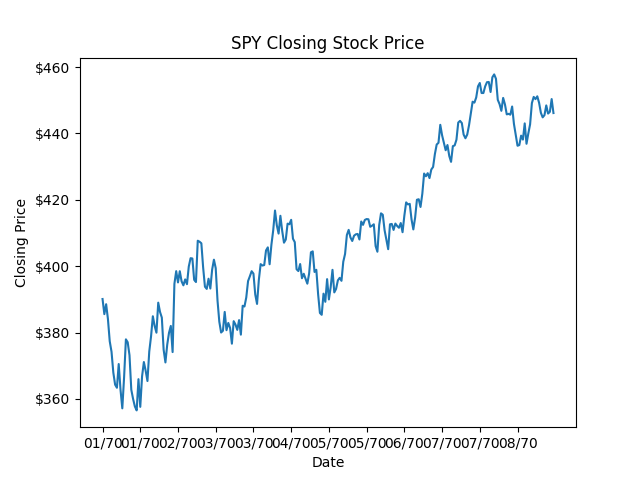
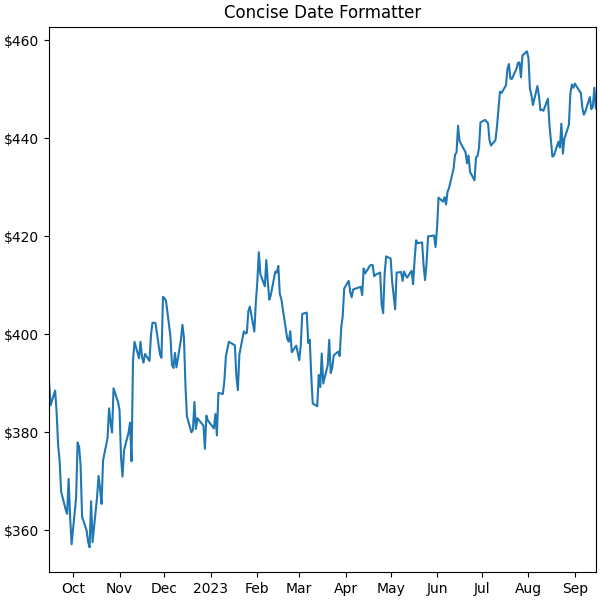
update

diff --git a/main.py b/main.py
@@ -3,10 +3,28 @@ Created on Fri Sep 15 15:03:11 2023
 @author: lillygrella
 """
 import polars as pl
-from matplotlib import pyplot as plt, dates
+from matplotlib import pyplot as plt
+import numpy as np
+import matplotlib.dates as mdates
 from matplotlib.ticker import FuncFormatter
-import seaborn as sns
-import plotly.express as px
+
+
+def make_line_graph(d_f):
+    """
+    Make Line Graph
+    """
+    _, axs = plt.subplots(1, 1, layout="constrained", figsize=(6, 6))
+    locator = mdates.AutoDateLocator(minticks=12, maxticks=13)
+    formatter = mdates.ConciseDateFormatter(locator)
+    axs.xaxis.set_major_locator(locator)
+    axs.xaxis.set_major_formatter(formatter)
+    axs.yaxis.set_major_formatter(FuncFormatter(dollars))
+
+    axs.plot("Date", "Close", data=d_f)
+    axs.set_xlim((np.datetime64("2022-09-15"), np.datetime64("2023-09-15")))
+    axs.set_title("Concise Date Formatter")
+
+    plt.savefig("SPY_Closing.png")
 
 
 def readin():
@@ -14,7 +32,7 @@ def readin():
     read in CSV
     Create Daily Price Change Variable
     """
-    d_f = pl.read_csv('SPY.csv',try_parse_dates=True)
+    d_f = pl.read_csv("SPY.csv", try_parse_dates=True)
     return d_f
 
 
@@ -22,8 +40,9 @@ def get_summ_stats(d_f):
     """
     Return Summary Stats
     """
-    stats = d_f['Close'].describe()
+    stats = d_f["Close"].describe()
     return stats
+
 
 def dollars(value, _):
     """
@@ -33,34 +52,15 @@ def dollars(value, _):
     return f"${value:.0f}"
 
 
-def make_line_graph(d_f):
-    """
-    Create Line Graph of
-    """
-    d = d_f.to_pandas()
-    _, axes = plt.subplots()
-    d["Close"].plot()
-    axes.set_xticks(d.index)
-    plt.locator_params(axis="x", nbins=12)
-    axes.set_title("SPY Closing Stock Price")
-    axes.set_xlabel("Date")
-    axes.set_ylabel("Closing Price")
-    axes.xaxis.set_major_formatter(dates.DateFormatter("%m/%y"))
-    axes.yaxis.set_major_formatter(FuncFormatter(dollars))
-    plt.savefig("SPY_Closing.png")
-
-
-
 def main():
     """
     Main function to perform actions
     """
     spy = readin()
     stats = get_summ_stats(spy)
-
     make_line_graph(spy)
 
-    string = f'''
+    string = f"""
     # This is the generated report for [SPY.csv](https://github.com/nogibjj/LG-Week2-Pandas/blob/main/SPY.csv).
     #It includes both summary statistics and data visualizations
 
@@ -70,20 +70,17 @@ def main():
 
     ## Data Visualization
 
-    ### Boxplots of each variable
+    ### Line Graph of SPY closing prices
     ![LineGraph](SPY_Closing.png)
 
-    '''
+    """
 
-    # Specify the file path where you want to create the Markdown file
+    # output markdown file
     filepath = "Generated Report.md"
 
-    # 
     with open(filepath, "w", encoding="utf-8") as md_file:
         md_file.write(string)
 
 
 if __name__ == "__main__":
     main()
-
-

diff --git a/test_main.py b/test_main.py
@@ -1,7 +1,29 @@
 # test test_main.py
-from main import returnSecondValue
+from main import readin, get_summ_stats
 
 
-def test_sec():
-    assert returnSecondValue("Lilly") == "i"
-    assert returnSecondValue([1, 2, 3]) == 2
+def test_sumstats():
+    """
+    confirms summary stats are being calculated correctly
+    """
+    spy = readin()
+    series = get_summ_stats(spy)
+    data = spy.to_pandas()
+    #print(spy["Close"].median())
+
+    print(spy["Close"].median())
+    print(series[6]['value'][0])
+
+    assert data["Close"].mean().round(2) == round(series[2]['value'][0],2)
+    assert data["Close"].count() == series[0]['value'][0]
+    #assert data["Close"].median().round(2) == round(series[6]['value'][0],2)
+    assert data["Close"].std().round(2) == round(series[3]['value'][0],2)
+
+    #assert spy["Close"].mean() == series[2]['value'][0]
+    #assert spy["Close"].count() == series[0]['value'][0]
+    #assert spy["Close"].median() == series[6]['value'][0]
+    #assert spy["Close"].std() == series[3]['value'][0]
+
+
+if __name__ == "__main__":
+    test_sumstats()

diff --git a/Generated Report.md b/Generated Report.md
@@ -1,0 +1,24 @@
+
+    # This is the generated report for [SPY.csv](https://github.com/nogibjj/LG-Week2-Pandas/blob/main/SPY.csv).
+    #It includes both summary statistics and data visualizations
+
+    ## Summary statistics for the Close Variable
+
+    |    | statistic   |    value |
+|---:|:------------|---------:|
+|  0 | count       | 252      |
+|  1 | null_count  |   0      |
+|  2 | mean        | 409.341  |
+|  3 | std         |  26.0028 |
+|  4 | min         | 356.56   |
+|  5 | 25%         | 391.56   |
+|  6 | 50%         | 407.38   |
+|  7 | 75%         | 436.17   |
+|  8 | max         | 457.79   |
+
+    ## Data Visualization
+
+    ### Line Graph of SPY closing prices
+    ![LineGraph](SPY_Closing.png)
+
+    
